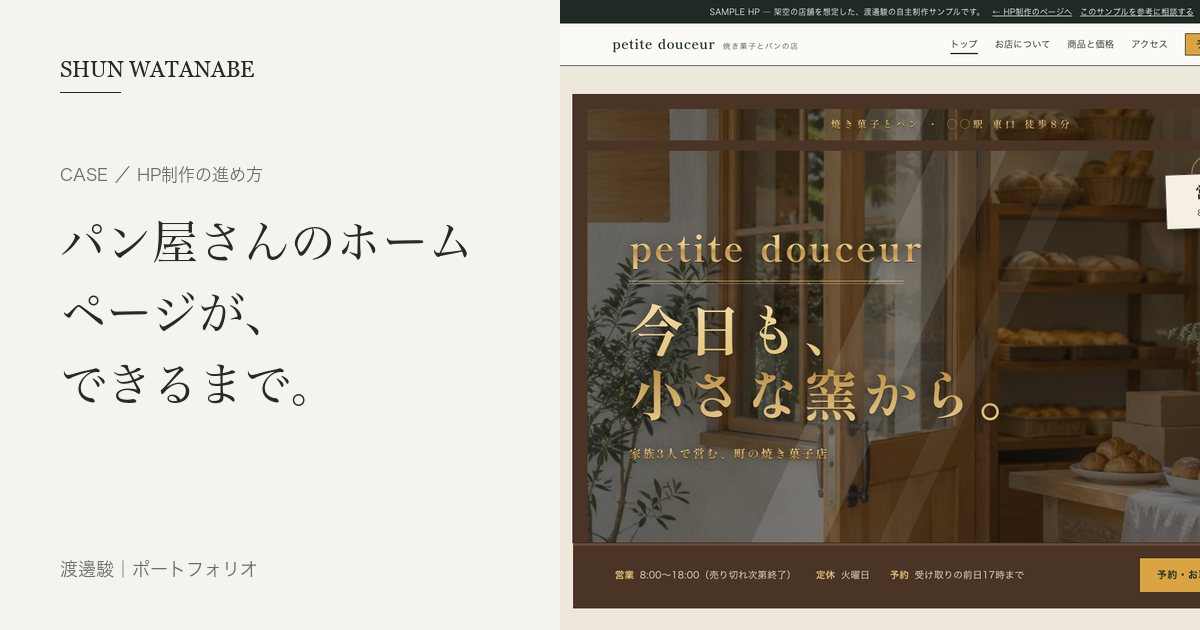
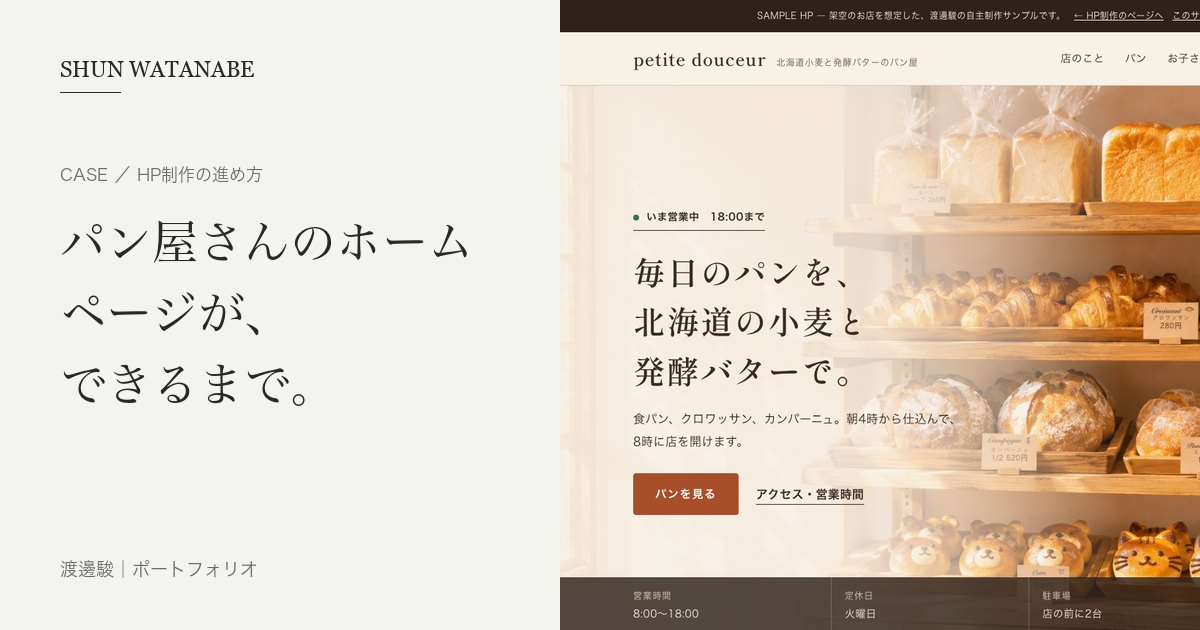
Add files via upload

diff --git a/case-bakery.html b/case-bakery.html
@@ -81,7 +81,7 @@
   </div>
 </header>
 <main id="main">
-<section class="sub-hero"><div class="photo has-img"><img src="case/v7-hero.jpg" alt="作り直したパン屋のホームページのトップ画面。子どもの背の高さの棚に並ぶどうぶつパンの写真をページいっぱいに使い、床の上に見出しを置いている" fetchpriority="high"></div></section>
+<section class="sub-hero"><div class="photo has-img"><img src="case/v8-hero.jpg" alt="作り直したパン屋のホームページのトップ画面。食パンやクロワッサンが並ぶ木の棚の写真をページいっぱいに使い、左の壁に見出しを置いている" fetchpriority="high"></div></section>
 <section class="sub-title">
   <a class="crumb" href="hp.html">← HP制作</a>
   <div>
@@ -96,10 +96,10 @@
   <div class="body reveal">
     <div class="note" style="max-width:none;">
       <dl class="facts-list">
-        <dt>想定したお店</dt><dd>家族3人で営む、どうぶつパンと焼き菓子の店。子ども連れのお客さんが多い</dd>
+        <dt>想定したお店</dt><dd>家族3人で営む、北海道の小麦と発酵バターで焼く小さなパン屋。どうぶつパンもあり、子ども連れのお客さんも多い</dd>
         <dt>目的</dt><dd>お店に来てもらうこと。駐車場と道順で迷わせないこと。取り置きを受けやすくすること</dd>
-        <dt>雰囲気</dt><dd>「子ども連れ・あかるい」。公開後も見直しを重ね、今の形は7つ目の版です（このページの最後にまとめています）</dd>
-        <dt>ページ</dt><dd>4ページ（トップ／商品と価格／場所と駐車場／取り置き・ご予約）</dd>
+        <dt>雰囲気</dt><dd>「木と朝の光・落ち着いた」。公開後も見直しを重ね、今の形は8つ目の版です（このページの最後にまとめています）</dd>
+        <dt>ページ</dt><dd>4ページ（トップ／メニューと価格／場所と駐車場／取り置き・ご予約）</dd>
         <dt>同じ時に作った店</dt><dd>売りの違うパン屋を、あと2店作りました。<a href="hp-samples/haito-mugi/index.html">灰と麦</a>（薪窯で焼く店）、<a href="hp-samples/gogo-no-isu/index.html">午後の椅子</a>（イートインの店）</dd>
       </dl>
     </div>
@@ -111,7 +111,7 @@
   <h2><span>FLOW</span></h2>
   <div class="body reveal">
     <p class="headline">進め方は、8つの段階です。</p>
-    <p>1と2は中身を決める段階、3〜6は形を決めて作る段階、7と8は公開したあとの段階です。どれも、このサンプルのいちばん新しい作り直し（2026年11月）を例にしています。</p>
+    <p>1と2は中身を決める段階、3〜6は形を決めて作る段階、7と8は公開したあとの段階です。STEP 01〜08は、7つ目の版を作ったとき（2026年11月19〜20日）の記録です。公開したあとに見直して作り直した8つ目の版は、<a href="#review">REVIEW</a>にまとめました。</p>
     <ol class="flow-list">
       <li><span><a href="#s1">実在のお店のサイトを、先に観察する</a><small>観察の記録</small></span></li>
       <li><span><a href="#s2">ページの数と、載せることを決める</a><small>ページごとの中身</small></span></li>
@@ -226,8 +226,8 @@
       </table>
     </div>
     <div class="case-figs one">
-      <figure><img src="case/v7-sections.jpg" alt="作り直したトップページの主な段。最初の画面、手元、黒板、外観と、スマホの画面" loading="lazy"><figcaption><b>後</b>　トップページの主な段（左4つがパソコン、右2つがスマホ）。</figcaption></figure>
-      <figure><img src="case/v7-3shops.jpg" alt="売りの違う3店のトップ画面を並べた画像。petite douceur、灰と麦、午後の椅子" loading="lazy"><figcaption><b>3店</b>　左から子ども連れ（petite douceur）、薪窯（<a href="hp-samples/haito-mugi/index.html">灰と麦</a>）、イートイン（<a href="hp-samples/gogo-no-isu/index.html">午後の椅子</a>）。</figcaption></figure>
+      <figure><img src="case/v7-sections.jpg" alt="作り直したトップページの主な段。最初の画面、手元、黒板、外観と、スマホの画面" loading="lazy"><figcaption><b>7つ目の版</b>　トップページの主な段（左4つがパソコン、右2つがスマホ）。</figcaption></figure>
+      <figure><img src="case/v7-3shops.jpg" alt="売りの違う3店のトップ画面を並べた画像。petite douceur、灰と麦、午後の椅子" loading="lazy"><figcaption><b>3店（7つ目の版の時点）</b>　左から子ども連れ（petite douceur）、薪窯（<a href="hp-samples/haito-mugi/index.html">灰と麦</a>）、イートイン（<a href="hp-samples/gogo-no-isu/index.html">午後の椅子</a>）。</figcaption></figure>
     </div>
   </div>
 </section>
@@ -259,7 +259,43 @@
       <div><small>直した後</small><b>100</b><small>おすすめの方法（3店とも）</small></div>
     </div>
     <p style="font-size:12.5px;color:var(--ink-soft);">※2026年11月20日、公開中の各トップページを、直す前と直した後に1回ずつ計測した値です。直した後の表示の速さは、petite douceur 97点（LCP 2.4秒）、灰と麦 96点（2.7秒）、午後の椅子 96点（2.7秒）でした。計測する環境や日によって変わります。サンプルは架空のお店のため、検索結果には出さない設定にしています（そのためSEOの点数は低く出ます）。</p>
+    <p style="font-size:12.5px;color:var(--ink-soft);">STEP 08の値は、7つ目の版を測ったものです。8つ目の版も公開後に測り、ここに書き足します。</p>
     <p style="font-size:12.5px;color:var(--ink-soft);">6つ目の版では、1回目の91点から、スマホで写真を2種類読み込んでいた所を直して96点にしました（2026年11月15日）。</p>
+  </div>
+</section>
+
+<section class="block" id="review">
+  <h2><span>REVIEW</span></h2>
+  <div class="body reveal">
+    <p class="headline">見返して、お店のイメージを1つに絞り直す。</p>
+    <p>7つ目の版を公開したあと、「このお店に行きたいと思えるか」「写真を撮りたくなるか」という目で見返しました。きちんと整ってはいても、パンのおいしさやお店の空気が伝わりにくく、写真にも人の気配がありませんでした。</p>
+    <p>そこで試作を重ねました。ところが、手描きの顔、素材、深煎りコーヒー、店のイチオシと、気づいた売りを足すたびに、お店の印象がばらばらになっていきました。どうぶつパンの横にコーヒーとの組み合わせを並べてしまい、子どもにコーヒーをすすめているように読める案もありました。</p>
+    <div class="table-scroll">
+      <table class="case-table wrap">
+        <tr><th>試作</th><th>主役にしたもの</th><th>うまくいかなかった点</th></tr>
+        <tr><td>手描きの顔</td><td>どうぶつパンに顔を描く手元</td><td>売りとして弱く、パン屋としての中身が伝わらない</td></tr>
+        <tr><td>素材・写真映え・コーヒー</td><td>ほかの店との3つの違いを最初の画面に</td><td>子ども向けのパンと、大人向けのコーヒーが混ざった</td></tr>
+        <tr><td>店のイチオシ</td><td>イチオシ4種を並べたトレー</td><td>飾りが増え、お店の雰囲気がまとまらない</td></tr>
+      </table>
+    </div>
+    <p>いったん立ち止まり、実在のパン屋さん7店で、トップの写真と、上から下への並び順を確かめ直しました（2026年11月21日）。</p>
+    <div class="table-scroll">
+      <table class="case-table wrap">
+        <tr><th>確かめたこと</th><th>結果</th></tr>
+        <tr><td>トップの写真</td><td>7店中5店が、何種類も並んだパンか、店内の棚。子ども向けのパン1種類だけを置いた店はなし</td></tr>
+        <tr><td>写真の次</td><td>「お店の考え」が来る店が5店。その次にメニュー・おすすめ</td></tr>
+        <tr><td>店の情報・アクセス</td><td>どの店も最後</td></tr>
+        <tr><td>見た目</td><td>木・生成り・あたたかい光。色と写真の調子が、どの店も1つにそろっている</td></tr>
+      </table>
+    </div>
+    <p>この結果から、先にお店のイメージを1文で決めました。<b>「北海道の小麦と発酵バターで焼く、木と朝の光の小さなパン屋」</b>。そのうえで、ページを「商品棚の写真 → 店のこだわり → メニュー → お子さま連れの方へ → アクセス」の順に組み直し、イメージに合わない飾り（回るスタンプ、流れる帯、ステッカー風の札）を外しました。どうぶつパンはお店の主役ではなく、メニューの楽しみの一つにしています。</p>
+    <p>写真は「人の手・あたたかい光・おいしそうな色」で作り直しました。生成画像は日本語の文字が崩れるため、商品棚の値札は空のまま作り、あとから手書き風の書体で名前と値段を書き込んでいます。札からはみ出さないよう、札の範囲を1枚ずつ測り、書いた文字が内側に収まるかをプログラムで確かめました。</p>
+    <div class="case-figs one">
+      <figure><img src="case/v8-review.jpg" alt="試作の変化を並べた画像。左から手描きの顔を主役にした案、店のイチオシを並べた案、イメージを統一した今の版" loading="lazy"><figcaption><b>試作の変化</b>　左から手描きの顔、店のイチオシ、イメージを1つに絞った今の版。</figcaption></figure>
+      <figure><img src="case/v8-sections.jpg" alt="8つ目の版のトップページの主な段。商品棚の最初の画面、店のこだわり、メニュー、お子さま連れの方へと、スマホの画面" loading="lazy"><figcaption><b>8つ目の版</b>　トップページの主な段（左4つがパソコン、右がスマホ）。</figcaption></figure>
+    </div>
+    <p class="headline" style="margin-top:36px;font-size:clamp(18px,2vw,22px);">学んだこと：売りを足す前に、お店のイメージを1文で決める。</p>
+    <p>足したくなった要素は、その1文に合うかどうかで選びます。実際のご依頼でも、最初のヒアリングでお店のイメージを一緒に言葉にしてから、デザインに進みます。</p>
   </div>
 </section>
 
@@ -267,7 +303,7 @@
   <h2><span>HISTORY</span></h2>
   <div class="body reveal">
     <p class="headline">これまでの版。</p>
-    <p>このサンプルは、公開したあとも見直しを続けています。最初はポップな作りでしたが、見返すたびに「生成AIで作ったサイトによくある形」が残っていることに気づき、作り直してきました。今の形は7つ目の版です。</p>
+    <p>このサンプルは、公開したあとも見直しを続けています。最初はポップな作りでしたが、見返すたびに「生成AIで作ったサイトによくある形」が残っていることに気づき、作り直してきました。今の形は8つ目の版です。</p>
     <div class="history">
       <figure><img src="case/before-hero.jpg" alt="1つ目の版のトップ画面。写真の上に白い角丸の囲み" loading="lazy"><figcaption><b>1　最初の版</b>丸みのある文字と、写真の上の白い角丸の囲み。</figcaption></figure>
       <figure><img src="case/after-hero.jpg" alt="2つ目の版のトップ画面。囲みが山型の食パンの形" loading="lazy"><figcaption><b>2　パンの形の囲み</b>依頼者役の意見を受け、囲みを食パンの形に。どうぶつパンを追加。</figcaption></figure>
@@ -275,7 +311,8 @@
       <figure><img src="case/v4-hero.jpg" alt="4つ目の版のトップ画面。左に焼き上がりの時刻表" loading="lazy"><figcaption><b>4　時刻表</b>角丸の囲みをやめ、罫線と時刻表に。写真は前のまま。</figcaption></figure>
       <figure><img src="case/v5-hero.jpg" alt="5つ目の版のトップ画面。店先の写真に見出しが重なる" loading="lazy"><figcaption><b>5　お店の一日</b>写真を6枚作り直し、5時から18時までの場面で組み立てる。</figcaption></figure>
       <figure><img src="case/v6-hero.jpg" alt="6つ目の版のトップ画面。店のガラス戸に金文字で店名" loading="lazy"><figcaption><b>6　店先のガラス越し</b>店のガラス戸を最初の画面に。時刻で変わる札と、焼き上がりの棚。</figcaption></figure>
-      <figure><img src="case/v7-hero.jpg" alt="7つ目の版のトップ画面。子どもの背の高さの棚の写真に見出し" loading="lazy"><figcaption><b>7　子どもの目の高さの棚（今の版）</b>このページのSTEP 01〜06で作り直した形。</figcaption></figure>
+      <figure><img src="case/v7-hero.jpg" alt="7つ目の版のトップ画面。子どもの背の高さの棚の写真に見出し" loading="lazy"><figcaption><b>7　子どもの目の高さの棚</b>このページのSTEP 01〜06で作り直した形。</figcaption></figure>
+      <figure><img src="case/v8-hero.jpg" alt="8つ目の版のトップ画面。食パンやクロワッサンが並ぶ木の棚の写真に見出し" loading="lazy"><figcaption><b>8　木と朝の光の商品棚（今の版）</b>店のイメージを1文に決めて作り直した形（REVIEW）。</figcaption></figure>
     </div>
     <p style="font-size:12.5px;color:var(--ink-soft);">写真はすべて画像生成AIで作ったイメージです。</p>
   </div>
